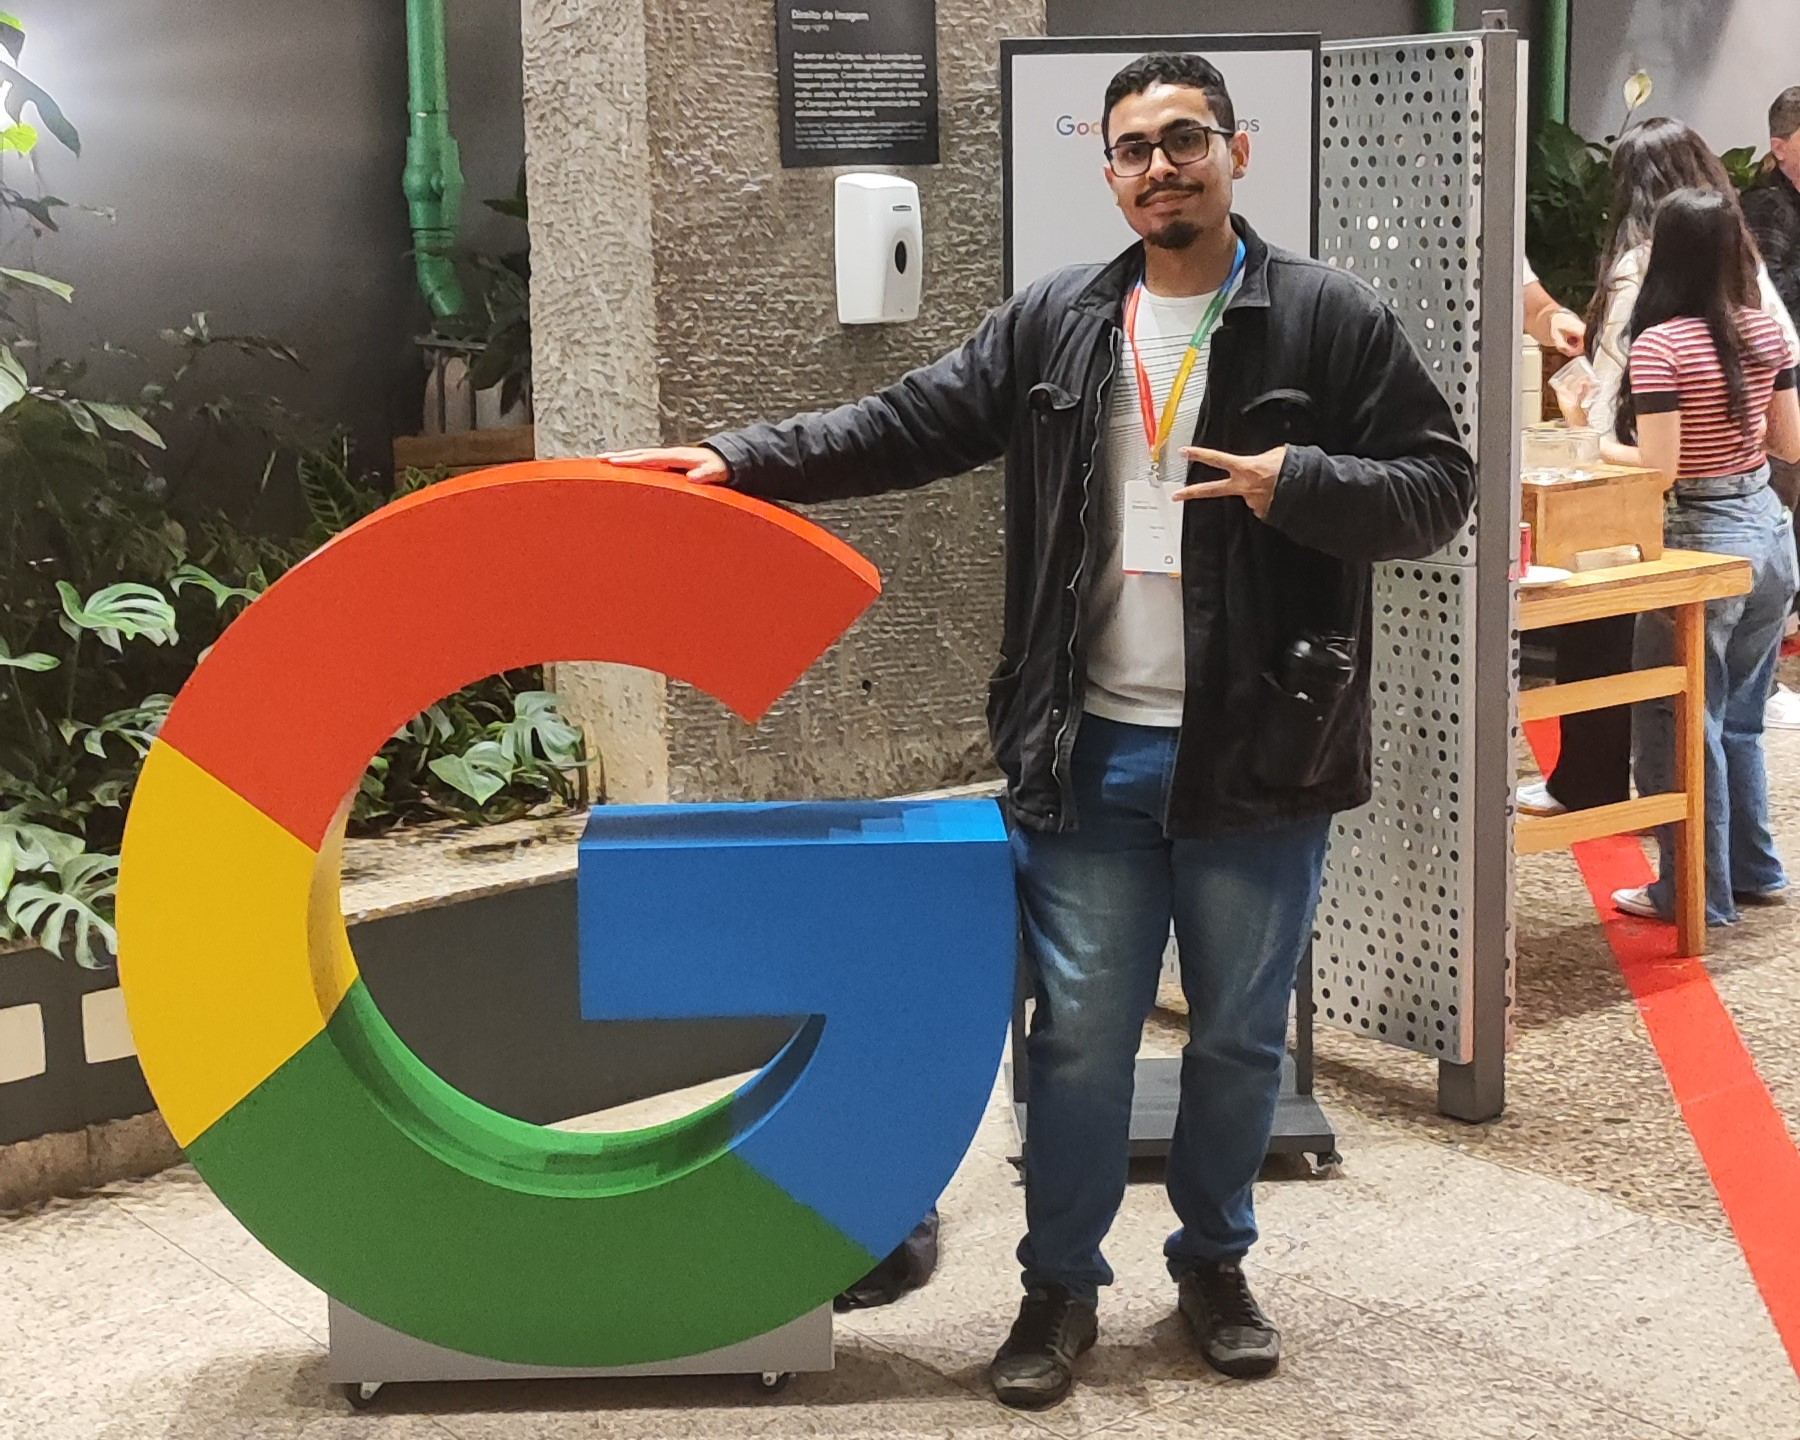
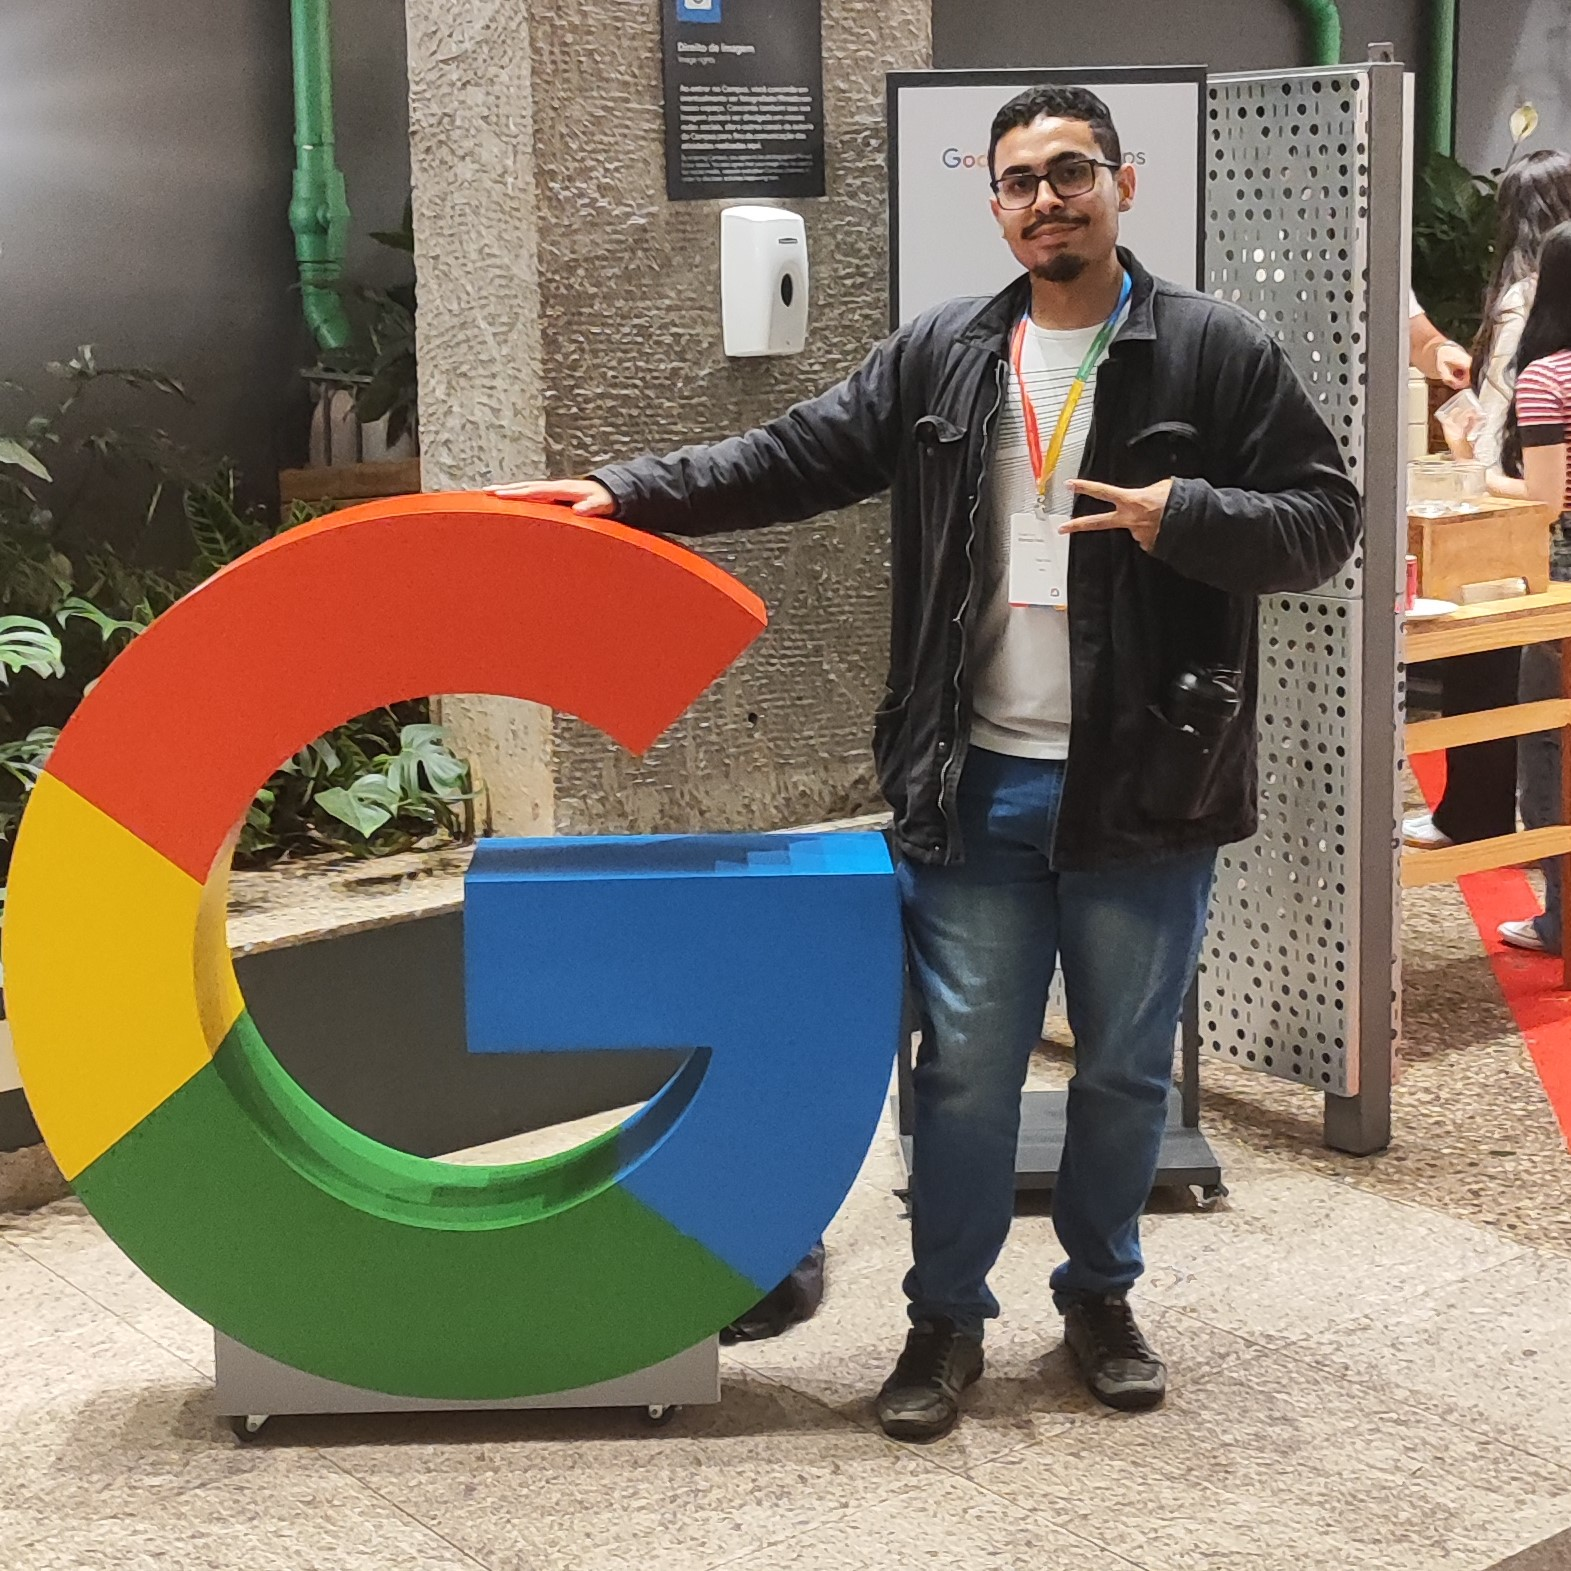
feat: gibli photos on hover

diff --git a/src/app/page.tsx b/src/app/page.tsx
@@ -10,7 +10,6 @@ import ThemeSwitch from './components/ThemeSwitch';
 import LatestProjects from './components/LatestProjects';
 import LatestProjectsSlider from './components/LatestProjectsSlider';
 
-
 export default function Home() {
     const sliderImages = [
         <Image src="/python.svg" alt="Python" width={125} height={125} key="1" />,
@@ -79,7 +78,7 @@ export default function Home() {
                                 Olá, pode me chamar de Tiago Lucas <span className="font-bold text-orange-500">:)</span>
                             </div>
                             <h1
-                                className="text-3xl font-semibold italic mb-6 md:text-6xl
+                                className="text-3xl font-semibold italic mb-6 md:text-6xl md:w-3xs
 "
                             >
                                 &lt; <TypeAnimations /> /&gt;
@@ -93,14 +92,16 @@ export default function Home() {
                     </div>
 
                     <div className="flex justify-center md:mr-12 md:items-center">
-                        <Image
-                            src="/perfil.jpg"
-                            alt="Picture of the author"
-                            width={640}
-                            height={480}
-                            className="m-0 rounded-lg transition duration-400 ease-in-out border-2 border-orange-500
-                            "
-                        />
+                        <div className="relative w-[380px] group">
+                            <Image src="/perfil.jpg" alt="Imagem original" width={640} height={480} className="m-0 rounded-lg transition duration-500 ease-in-out border-2 border-orange-500" />
+                            <Image
+                                src="/perfilHover.png"
+                                alt="Imagem no hover"
+                                width={640}
+                                height={480}
+                                className="absolute top-0 left-0 m-0 rounded-lg transition duration-500 ease-in-out border-2 border-orange-500 opacity-0 group-hover:opacity-100"
+                            />
+                        </div>
                     </div>
                 </div>
 
@@ -123,14 +124,25 @@ export default function Home() {
                             Sobre mim
                         </h2>
                         <div className="my-10 ">
-                            <Image
-                                src="/perfilImage.jpg"
-                                alt="Picture of the author"
-                                width={600}
-                                height={300}
-                                className="m-0 rounded-lg transition duration-400 ease-in-out border-2 border-orange-500
+                            <div className="relative w-[20rem] md:w-[37.5rem] group">
+                                <Image
+                                    src="/perfilImage.jpg"
+                                    alt="Picture of the author"
+                                    width={600}
+                                    height={300}
+                                    className="m-0 rounded-lg transition duration-500 ease-in-out border-2 border-orange-500
                              "
-                            />
+                                />
+
+                                <Image
+                                    src="/perfilImageHover.png"
+                                    alt="Picture of the author"
+                                    width={600}
+                                    height={300}
+                                    className="absolute top-0 left-0 m-0 rounded-lg transition duration-500 ease-in-out border-2 border-orange-500 opacity-0 group-hover:opacity-100
+                             "
+                                />
+                            </div>
                         </div>
                         <div className="bg-gray-300 p-4 text-center rounded-lg">
                             <p>
@@ -176,36 +188,6 @@ export default function Home() {
 "
                         >
                             <ul
-                                className="w-60 flex items-start flex-col gap-4 
-"
-                            >
-                                <li className="">
-                                    <span className="font-bold">.</span> Automatização do processo de cadastro de documentos através da criação de um RPA, aumentando eficiência operacional.
-                                </li>
-
-                                <li className="">
-                                    <span className="font-bold">.</span> Liderança no desenvolvimento de um sistema para filtragem e verificação de documentos, impactando mais de 10 mil registros.
-                                </li>
-                            </ul>
-                            <div className="flex items-center gap-2 mt-6 ">
-                                <div className="hoverable">
-                                    <Link href="https://www.cptm.sp.gov.br/">
-                                        <Image src="/CPTM_(Logo).png" alt="CPTM - Companhia Paulista de Trens Metropolitanos" width={50} height={50} />
-                                    </Link>
-                                </div>
-                                <div>
-                                    <h3 className="font-semibold">CPTM</h3>
-                                    <span>Aluno Aprendiz</span>
-                                </div>
-                            </div>
-                        </section>
-
-                        <section
-                            className="p-4 bg-gray-300 rounded-lg mb-4 flex-col md:flex justify-between
-
-"
-                        >
-                            <ul
                                 className="w-60 flex items-start flex-col gap-4
 "
                             >
@@ -226,6 +208,36 @@ export default function Home() {
                                 <div>
                                     <h3 className="font-semibold">Xerox Corporation</h3>
                                     <span>Desenvolvedor</span>
+                                </div>
+                            </div>
+                        </section>
+
+                        <section
+                            className="p-4 bg-gray-300 rounded-lg mb-4 flex-col md:flex justify-between
+
+"
+                        >
+                            <ul
+                                className="w-60 flex items-start flex-col gap-4 
+"
+                            >
+                                <li className="">
+                                    <span className="font-bold">.</span> Automatização do processo de cadastro de documentos através da criação de um RPA, aumentando eficiência operacional.
+                                </li>
+
+                                <li className="">
+                                    <span className="font-bold">.</span> Liderança no desenvolvimento de um sistema para filtragem e verificação de documentos, impactando mais de 10 mil registros.
+                                </li>
+                            </ul>
+                            <div className="flex items-center gap-2 mt-6 ">
+                                <div className="hoverable">
+                                    <Link href="https://www.cptm.sp.gov.br/">
+                                        <Image src="/CPTM_(Logo).png" alt="CPTM - Companhia Paulista de Trens Metropolitanos" width={50} height={50} />
+                                    </Link>
+                                </div>
+                                <div>
+                                    <h3 className="font-semibold">CPTM</h3>
+                                    <span>Aluno Aprendiz</span>
                                 </div>
                             </div>
                         </section>
